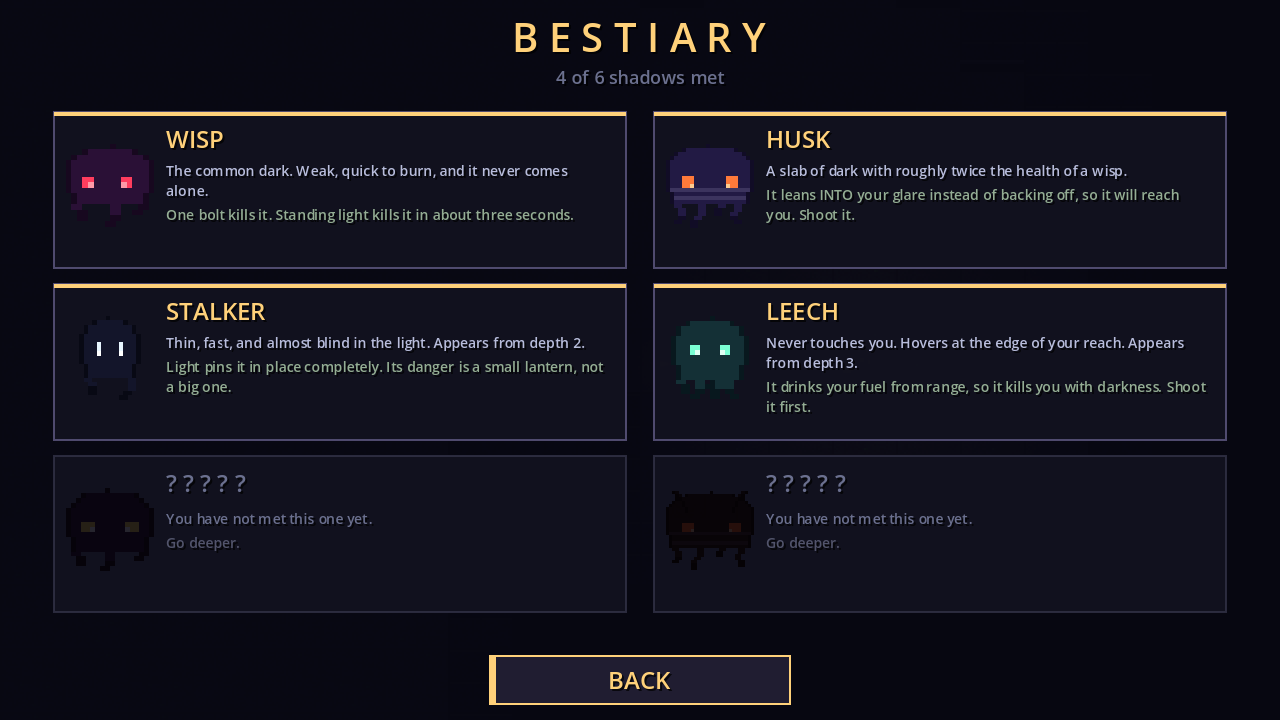
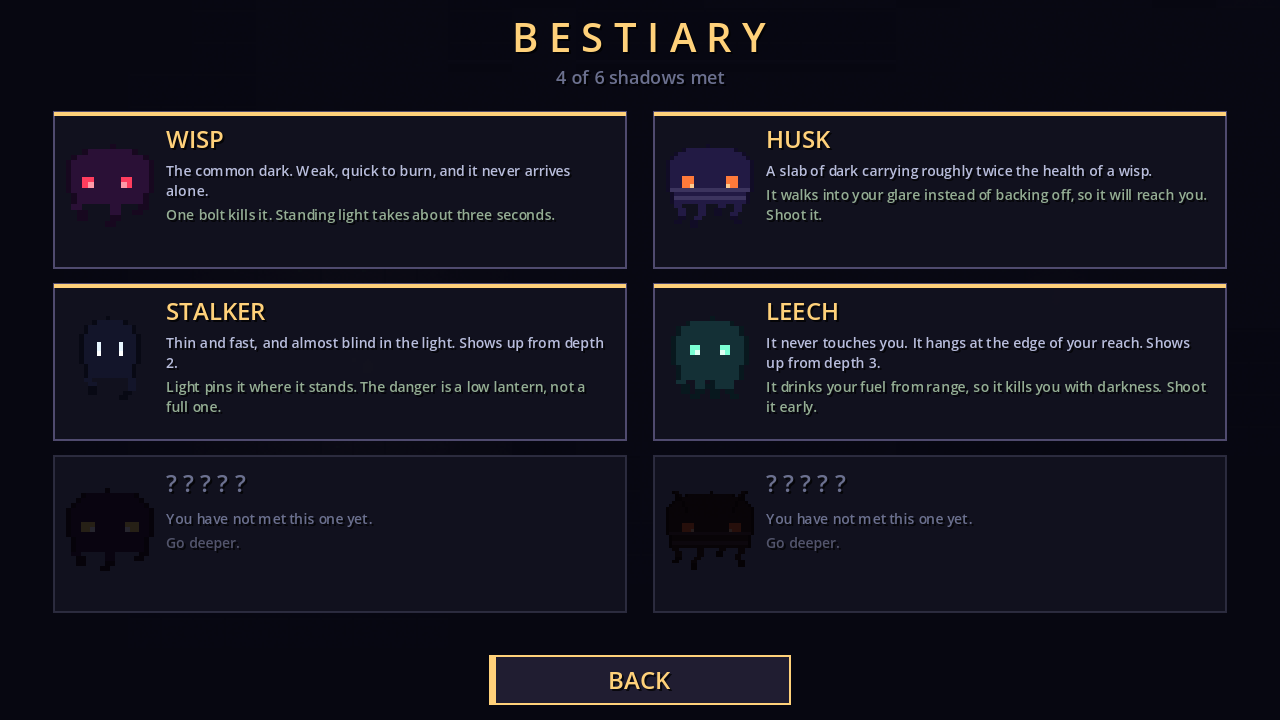
Tidy the repo, refresh the screenshots, and link the itch page
- New README with a cover image, badges and the itch.io link
- Fresh screenshots from the current build; old ones dropped
- Second Wind now matches its card and revives with two hearts
- .gitattributes marks the generated art and sound as binary

diff --git a/README.md b/README.md
@@ -1,27 +1,50 @@
+<p align="center">
+  <img src="docs/screenshots/cover.png" alt="Haven, the lantern keeper" width="420">
+</p>
+
+<p align="center">
+  <b>Explore the ruins, light up the beacons, and build your own little haven before the monsters notice your lantern is running on fumes.</b>
+</p>
+
+<p align="center">
+  <a href="https://bomberman1359.itch.io/haven"><img alt="Play on itch.io" src="https://img.shields.io/badge/play-itch.io-fa5c5c?logo=itchdotio&logoColor=white"></a>
+  <img alt="Made with Godot 4.7" src="https://img.shields.io/badge/Godot-4.7-478cbf?logo=godotengine&logoColor=white">
+  <a href="LICENSE"><img alt="MIT license" src="https://img.shields.io/badge/license-MIT-3da639"></a>
+</p>
+
 # Haven: the lantern keeper
 
-A top-down 2D roguelike built in Godot 4.7. Every sprite and every sound in
-this project is generated from scratch by the scripts in `tools/`. No
-downloaded art and no sample packs, including the ambient music loop.
+A top-down 2D roguelike made in Godot 4.7. You carry the last lantern in a ruin
+that goes down forever, and every shadow down there would like that lantern to
+go out.
 
-![The ruin, with shadows closing in](images/shadows_closing_in.png)
+Every sprite and every sound in this repo comes out of two Python scripts in
+`tools/`. No downloaded art, no sample packs, and yes, the music too.
+
+**[Play it in your browser on itch.io](https://bomberman1359.itch.io/haven).**
+No install, no account.
+
+![A flare going off in a crowd of shadows](docs/screenshots/flare.png)
 
 ## The idea
 
-You carry the only lantern left in a ruin that goes down forever.
+The lantern burns fuel every second, and the size of your light is however much
+fuel you have left. Shadows walk straight through walls, so there is no hiding
+behind a pillar and no corner to cheese. The light is the only thing they
+respect.
 
-The lantern burns fuel every second, and the size of your light is the amount
-of fuel you have left. Shadows walk straight through walls, so there is no
-hiding and no geometry to abuse. The lantern light is the only thing that
-stops them.
-
-Light every beacon on a floor and the way down opens. There is no bottom. Your
-score is how deep you got.
+Light every beacon on a floor and a stairway opens. Take it, pick a boon, and do
+the whole thing again one floor down. There is no bottom. Your score is how deep
+you got before the dark caught up with you.
 
 ## Running it
 
-Open the project folder in Godot 4.7 and press play. There is nothing to
-install and no dependencies beyond the engine.
+The quick way is [itch.io](https://bomberman1359.itch.io/haven), right in the
+browser.
+
+To run it from source, open this folder in Godot 4.7 and press play. There is
+nothing else to install. The repo also ships a Web export preset, so
+Project > Export > Web builds the same browser version that is on itch.
 
 ## Controls
 
@@ -36,7 +59,7 @@ install and no dependencies beyond the engine.
 | T | skip the tutorial |
 | R | run again from the death screen |
 | H | back to the main menu |
-| ESC | menu, or quit from the menu |
+| ESC | menu, or quit from the menu (the browser version skips the quitting part) |
 
 The arrow near the middle of the screen points at the nearest dead beacon. It
 turns blue and points at the stairway once the floor is clear.
@@ -58,27 +81,28 @@ out.
 
 The half-lit brazier lights up as you hold it, so the ground gets safer the
 longer you last. Finishing one refunds a chunk of fuel, scours every shadow
-nearby, and leaves that corner of the map permanently safe.
+nearby, and leaves that corner of the map permanently safe. That corner is your
+haven. Enjoy it, because the stairs are somewhere else.
 
 Each beacon on a floor takes longer than the last, and so does each floor.
 
-![A lit beacon](images/beacon_burning.png)
+![A beacon mid-vigil, with the dark answering](docs/screenshots/vigil.png)
 
 ## What is down there
 
 | | |
 | --- | --- |
-| **Wisp** | The basic thing. Light burns it, flares delete it. |
-| **Husk** | Twice the health, and it walks into the glare instead of backing off. |
-| **Stalker** | Sprints in the dark. Light does not hurt it, but rather pins it in place. |
-| **Leech** | Never touches you. Hangs at the edge of your reach and drinks the lantern. |
-| **Splitter** | Kill it with light and it becomes two wisps. Only a flare kills it clean. |
-| **Brute** | Immune to lantern light. Two flares, or route around it. |
+| **Wisp** | The basic thing. Light burns it, flares delete it. It never shows up alone. |
+| **Husk** | Twice the health, and it walks into the glare instead of backing off. Rude. |
+| **Stalker** | Sprints in the dark and freezes the moment your light touches it. The light never actually hurts it, so do not get comfy. |
+| **Leech** | Never touches you. Hangs at the edge of your reach and drinks the lantern through a very long straw. |
+| **Splitter** | Kill it with light and you get two wisps for the price of one. Only a flare kills it clean. |
+| **Brute** | Immune to lantern light. Two flares, or take the long way around. |
 
 Wisps and husks are there from the first floor. Stalkers show up at depth 2,
 leeches at 3, splitters at 4, brutes at 5.
 
-![The bestiary](images/bestiary.png)
+![The bestiary, four shadows in](docs/screenshots/bestiary.png)
 
 ## Dread and depth
 
@@ -86,11 +110,11 @@ Two separate pressures.
 
 **Dread** is how bad the current floor has got. It climbs with time spent here
 and with every beacon you light, and it drives spawn rate, fuel burn and how
-dark the ruin renders. It resets when you descend.
+dark the ruin renders. It resets when you go down.
 
 **Depth** never resets. Each floor is bigger, holds more beacons, and multiplies
 shadow speed and health. Together they are unbounded, so there is always a floor
-that finally kills you.
+that finally gets you.
 
 ## Boons
 
@@ -102,7 +126,7 @@ revive, faster boots, a burning dash trail, stronger beacons, beacons that
 refuel you further out, fuel drops from banished shadows, or brighter ambient
 light. Six of them can be taken more than once, and they stack across the run.
 
-![Choosing a boon](images/boon_choices.png)
+![Choosing a boon](docs/screenshots/boon_choices.png)
 
 ## The tutorial, the menu, the bestiary
 
@@ -116,23 +140,41 @@ entries show a silhouette. It is saved to `user://haven.cfg` along with your
 deepest run, so it survives between sessions.
 
 Dying opens a stats page with your time, depth, beacons lit, flasks taken,
-boons carried, and a per-kind count of everything you banished.
+boons carried, and a per-kind count of everything you banished. It is mostly
+there so you know exactly who to blame.
 
-![The death stats page](images/death_stats.png)
+![The death stats page](docs/screenshots/death_stats.png)
+
+## More screenshots
+
+<table>
+  <tr>
+    <td><img src="docs/screenshots/main_menu.png" alt="The main menu"></td>
+    <td><img src="docs/screenshots/tutorial.png" alt="The tutorial on depth 1"></td>
+  </tr>
+  <tr>
+    <td><img src="docs/screenshots/new_shadow.png" alt="A brute showing up for the first time"></td>
+    <td><img src="docs/screenshots/beacon_lit.png" alt="A beacon, freshly lit"></td>
+  </tr>
+</table>
 
 ## How it is put together
 
 ```
-scenes/    main, player, shadow, beacon, flask, stair, bolt
-scripts/   game.gd is the hub: map generation, depth and dread, spawning, FX
-		   shadow.gd holds all six kinds in one script, table-driven
-		   beacon.gd owns the vigil, terrain.gd draws the ruin in one pass
-		   hud.gd draws every screen and rebuilds its buttons as it draws them,
-			 so the keyboard and the mouse always agree on what is where
-		   sfx.gd is an autoload: pooled one-shots plus the looping ambience
-assets/    sprites/ and sfx/, all generated
-images/    screenshots
-tools/     gen_sprites.py, gen_audio.py
+src/
+  core/      game.gd is the hub: map generation, depth and dread, spawning, FX
+             hud.gd draws every screen and rebuilds its buttons as it draws them,
+               so the keyboard and the mouse always agree on what is where
+             terrain.gd draws the ruin in one pass
+             sfx.gd is an autoload: pooled one-shots plus the looping music
+  player/    the player, the lantern, and the bolts it fires
+  shadows/   all six kinds in one script, driven by a stats table
+  world/     beacon.gd owns the vigil; flasks and the stairway live here too
+assets/
+  sprites/   every png, made by tools/gen_sprites.py
+  audio/     every wav, made by tools/gen_audio.py
+docs/        screenshots for this readme
+tools/       the two generator scripts
 ```
 
 A few notes on the implementation:
@@ -159,5 +201,10 @@ python3 tools/gen_sprites.py
 python3 tools/gen_audio.py
 ```
 
-Both write into `assets/`. Godot reimports them on the next focus. Pillow is
-the only dependency, and the audio script uses the standard library alone.
+They write into `assets/sprites/` and `assets/audio/`, and Godot reimports them
+the next time the editor gets focus. Pillow is the only dependency, and the
+audio script uses the standard library alone.
+
+## License
+
+MIT, see [LICENSE](LICENSE). Take it apart and build something weirder with it.
